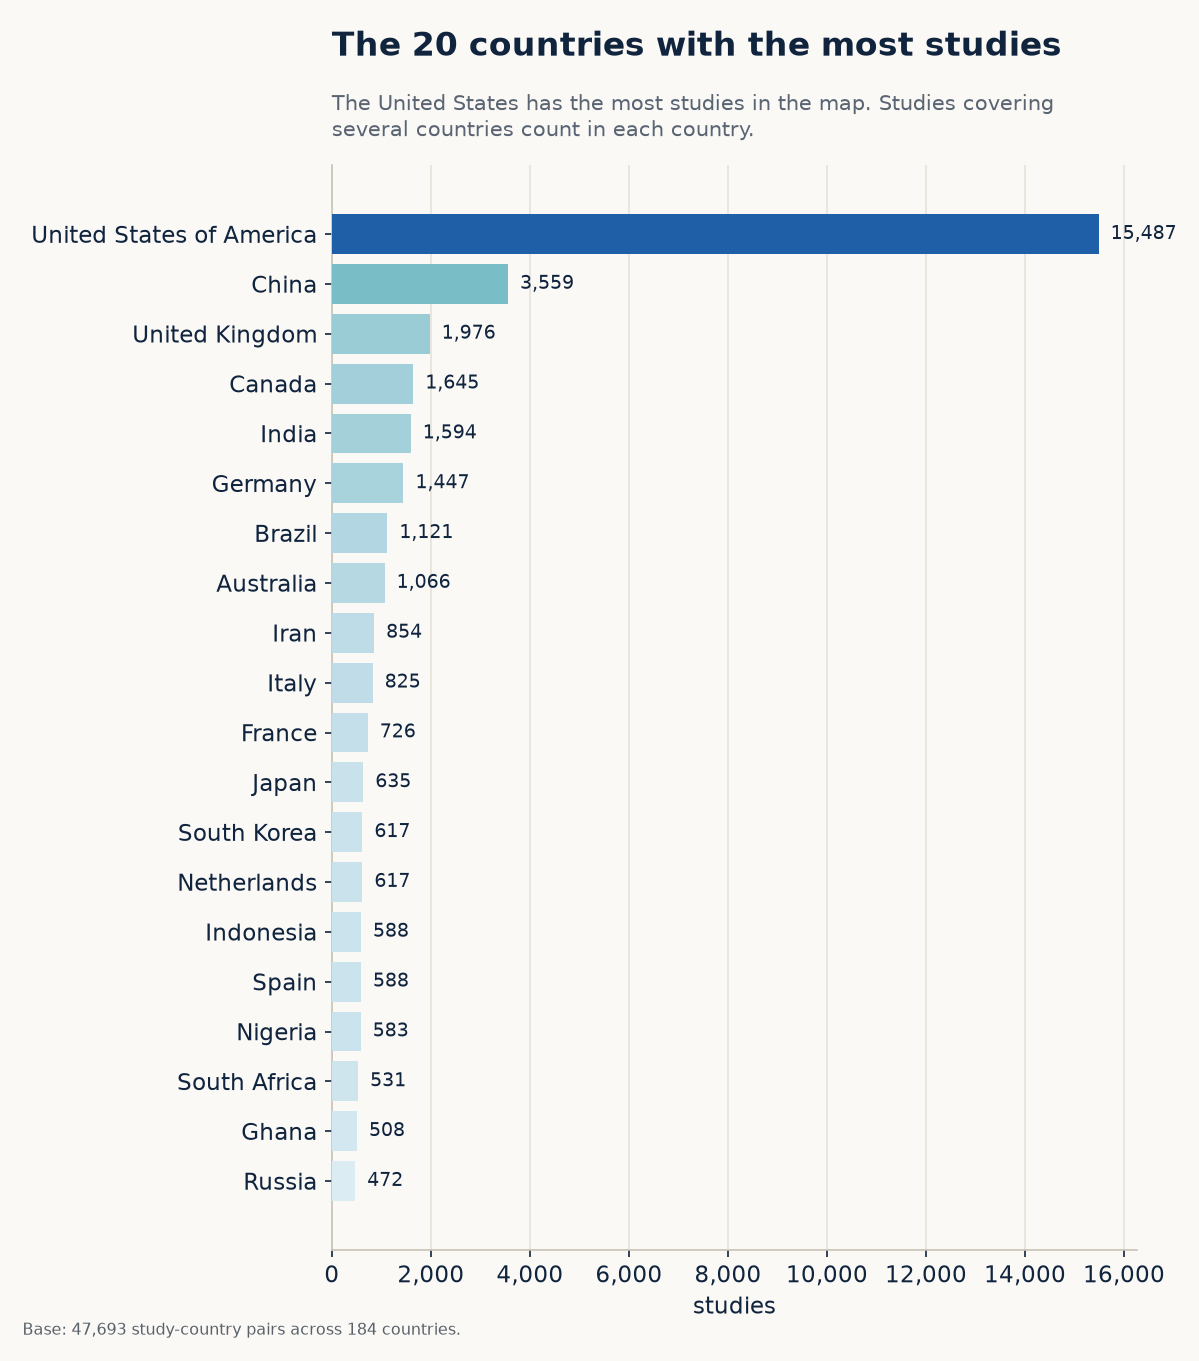
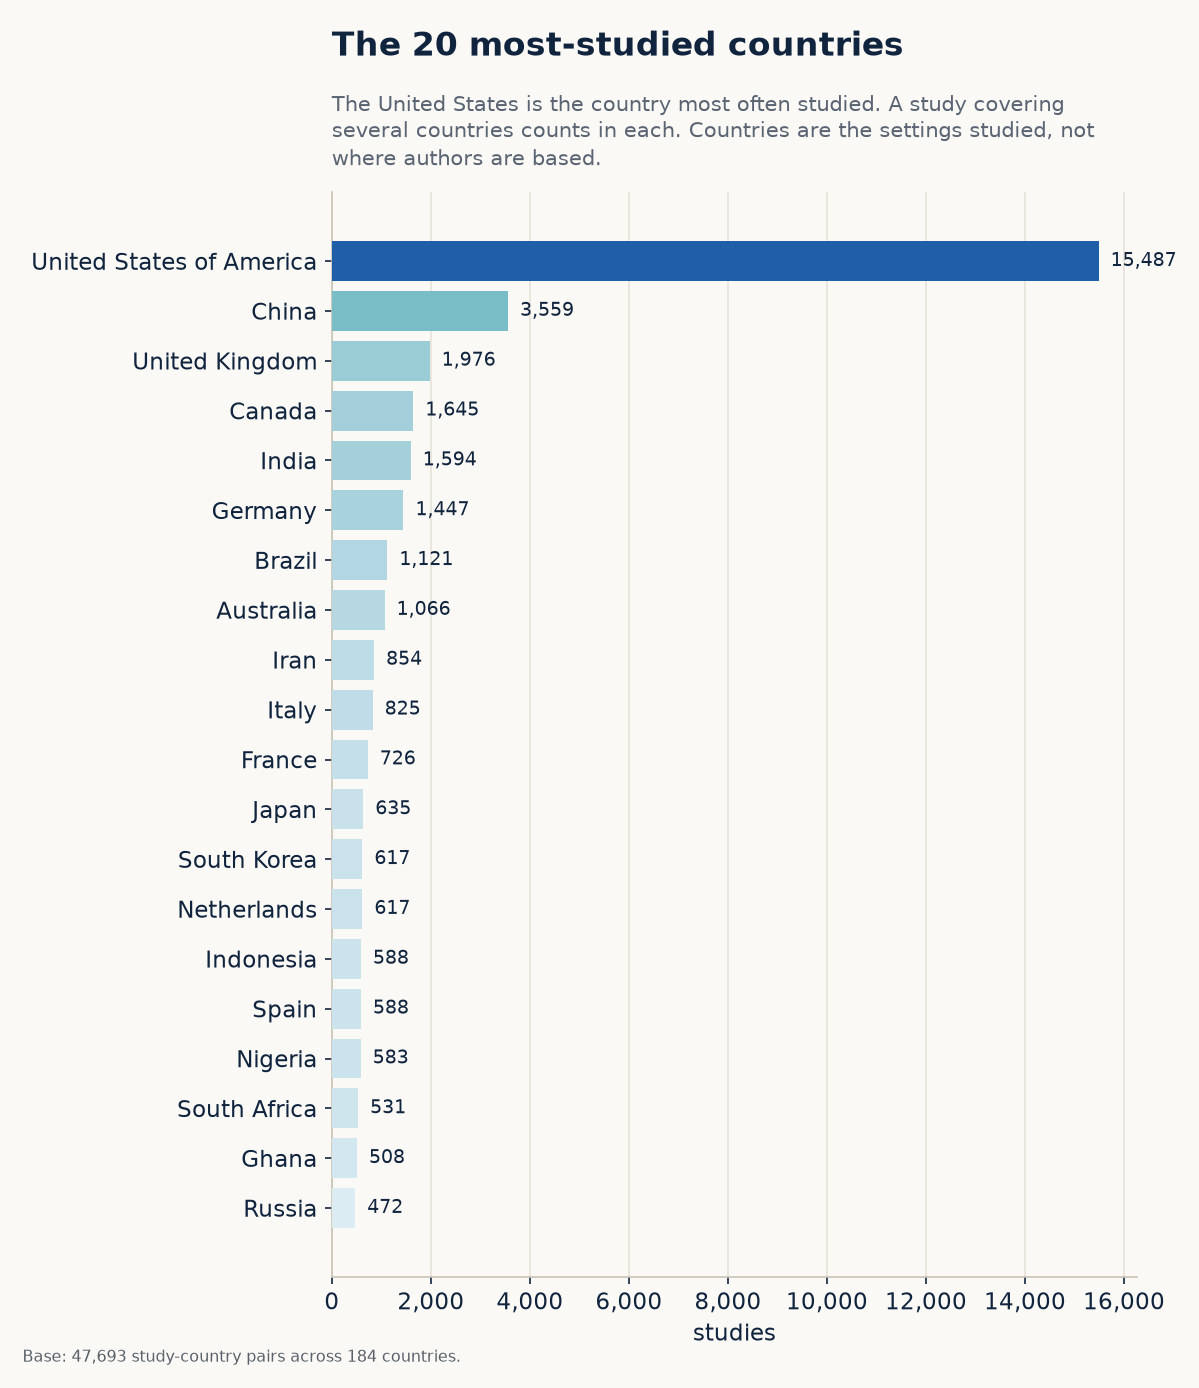
Clarify that geography figures count countries studied, not author location
The world map, top-20 countries and income-group figures count the
countries each study examines (geo_final, extracted from the abstract),
not where authors are based, but "Where health financing research is
focused" and "The 20 countries with the most studies" read as research
origin. New titles: "Which countries the studies examine", "The 20
most-studied countries", "Income group of the countries studied";
both captions now say countries are the settings studied, not where
authors are based. The Overview card heading and the Geography tab
label become "Countries studied". Figures re-rendered with the approved
copy (figure_copy_v2_5.json).

diff --git a/docs/index.html b/docs/index.html
@@ -11,7 +11,7 @@
      versions with SHA-384 integrity hashes verified by double fetch. -->
 <link rel="stylesheet" href="https://cdn.jsdelivr.net/npm/tom-select@2.3.1/dist/css/tom-select.min.css" integrity="sha384-krui876Mk6M6Lq6uj1SQo+u4MoImxFwCfwzWNU982QBMNci3VMZ3FoYSdUakJD5I" crossorigin="anonymous">
 <link rel="stylesheet" href="https://cdn.jsdelivr.net/npm/nouislider@15.8.1/dist/nouislider.min.css" integrity="sha384-PSZaVsyG9jDu8hFaSJev5s/9poIJlX7cuxSGdqCgXRHpo2DzIaZAyCd2rG/DJJmV" crossorigin="anonymous">
-<link rel="stylesheet" href="styles.css?v=2026-10-13m">
+<link rel="stylesheet" href="styles.css?v=2026-10-14a">
 </head>
 <body>
 
@@ -76,14 +76,14 @@
     <div class="overview-analysis-grid">
       <div class="card overview-analysis-card">
         <div class="card-header overview-card-head">
-          <span>Where the research is focused</span>
+          <span>Countries studied</span>
           <button class="card-header-link" type="button" data-open-group="Geography">More on geography &rarr;</button>
         </div>
         <div class="card-body overview-analysis-body">
           <button class="overview-figure-button" id="ov-worldmap-open" type="button"
-                  aria-label="Open the figure showing where the evidence is about">
-            <img class="overview-analysis-figure" src="figures/fig_worldmap.png"
-                 alt="World map showing where health financing studies are focused">
+                  aria-label="Open the figure showing which countries the studies examine">
+            <img class="overview-analysis-figure" src="figures/fig_worldmap.png?v=2026-10-14a"
+                 alt="World map showing which countries health financing studies examine">
           </button>
         </div>
       </div>
@@ -95,7 +95,7 @@
         <div class="card-body overview-analysis-body">
           <button class="overview-figure-button" id="ov-function-open" type="button"
                   aria-label="Open the studies by financing function figure">
-            <img class="overview-analysis-figure" src="figures/fig_function_bar.png?v=2026-10-13m"
+            <img class="overview-analysis-figure" src="figures/fig_function_bar.png?v=2026-10-14a"
                  alt="Bar chart showing studies by health financing function">
           </button>
         </div>
@@ -108,7 +108,7 @@
         <div class="card-body overview-analysis-body">
           <button class="overview-figure-button" id="ov-disease-method-open" type="button"
                   aria-label="Open the figure showing how each disease area is evaluated">
-            <img class="overview-analysis-figure" src="figures/fig_disease_method.png?v=2026-10-13m"
+            <img class="overview-analysis-figure" src="figures/fig_disease_method.png?v=2026-10-14a"
                  alt="Heatmap showing the mix of financing functions evaluated within each disease area">
           </button>
         </div>
@@ -147,7 +147,7 @@
     <div class="theme-wrap">
       <div id="gal-index">
         <header class="thematic-hero">
-          <img class="thematic-hero-map" src="figures/fig_worldmap.png" alt="" aria-hidden="true">
+          <img class="thematic-hero-map" src="figures/fig_worldmap.png?v=2026-10-14a" alt="" aria-hidden="true">
           <div class="thematic-hero-copy">
             <div class="thematic-eyebrow">Thematic analysis</div>
             <h1>Explore key patterns in the global health financing evidence base.</h1>
@@ -741,7 +741,7 @@
 <script src="https://cdn.jsdelivr.net/npm/plotly.js-dist-min@2.35.2/plotly.min.js" integrity="sha384-cCVCZkAjYNxaYKbM8lsArLznDF/SvMFr1jcZrvOpSTCa0W40ZAdLzHCEulnUa5i7" crossorigin="anonymous"></script>
 <script src="https://cdn.jsdelivr.net/npm/tom-select@2.3.1/dist/js/tom-select.complete.min.js" integrity="sha384-cnROoUgVILyibe3J0zhzWoJ9p2WmdnK7j/BOTSWqVDbC1pVw2d+i6Q/1ESKJKCYf" crossorigin="anonymous"></script>
 <script src="https://cdn.jsdelivr.net/npm/nouislider@15.8.1/dist/nouislider.min.js" integrity="sha384-EcVTHT5RdDTvzbTIbNOtaNxNALeJYDgmv5Crp3NBmcdrCPrDnqp6I1+ETJ/FCFHI" crossorigin="anonymous"></script>
-<script type="module" src="app.js?v=2026-10-13m"></script>
+<script type="module" src="app.js?v=2026-10-14a"></script>
 
 </body>
 </html>

diff --git a/docs/app.js b/docs/app.js
@@ -1,6 +1,6 @@
 // Cache-busting build token — bump alongside index.html's ?v= query string
 // whenever app.js or the data files change.
-const BUILD = "2026-10-13m";
+const BUILD = "2026-10-14a";
 
 const CODED_COLS = ["study_design", "type_of_analysis", "data_type", "data_source",
   "unit_of_observation", "geo_scope", "era"];
@@ -2524,7 +2524,7 @@ if (typeof document !== "undefined") {
   // Figures shown together as one card with mini-tabs (in this order).
   const FIGURE_TAB_GROUPS = [{
     files: ["fig_worldmap.png", "fig_map_growth.png", "fig_map_method.png"],
-    tabs: ["Where research is focused", "How recent the research is", "Most common analysis approach"]
+    tabs: ["Countries studied", "How recent the research is", "Most common analysis approach"]
   }, {
     files: ["fig_function_time_lines.png", "fig_method_stream.png"],
     tabs: ["Share of studies", "Number of studies"]
